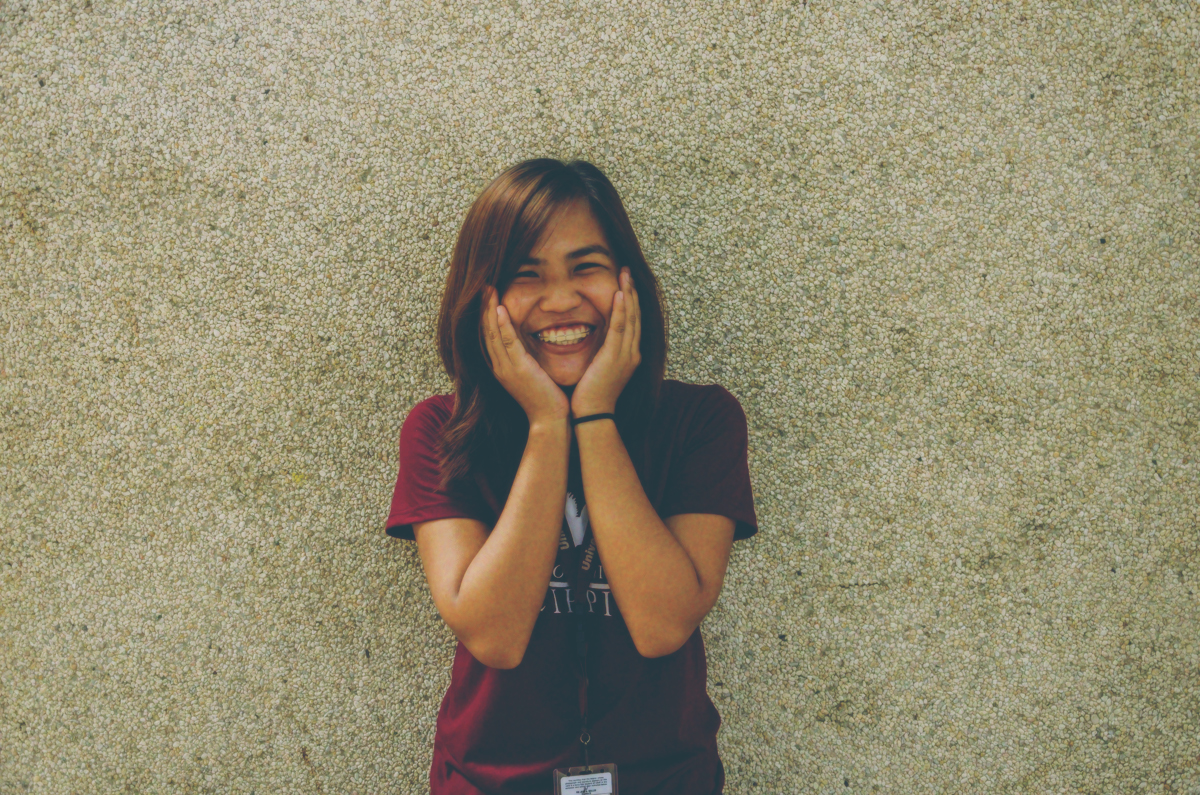
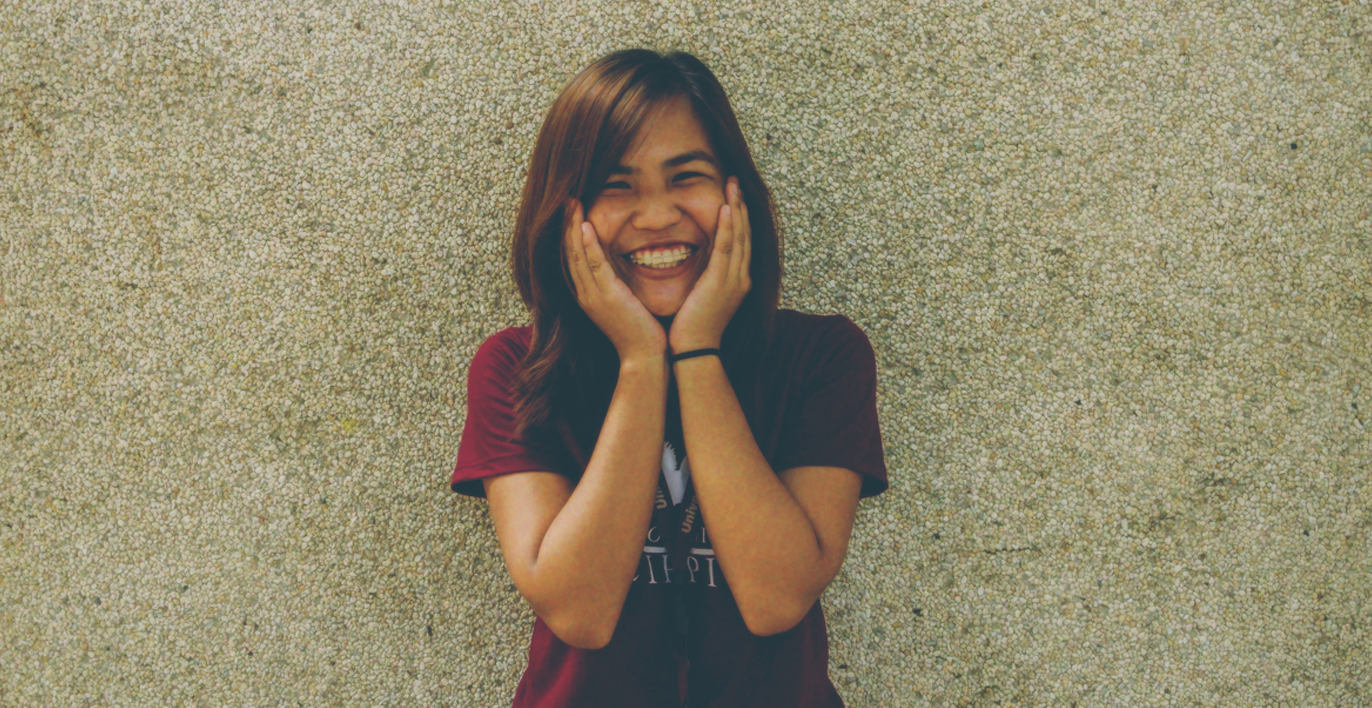
add html and image

diff --git a/mainpage.html b/mainpage.html
@@ -12,29 +12,33 @@
 				<nav>
 					<ul>
 						<li><a href="#home">Home</a></li>
-						<li><a href="#">About</a></li>
-						<li><a href="#">Affiliations</a></li>
+						<li><a href="#about">About</a></li>
+						<li><a href="#aff">Affiliations</a></li>
 						<li><a href="#">Photo</a></li>
 						<li><a href="#">Contact Me</a></li>
 					</ul>
 				</nav>
 		</div>
+				<a id="home"></a>
 				<div id="homepage">
-					<img src="image/main.jpg" height="10%" width="100%" >  
+				
 				</div>
 				
+				<a id="about"></a>
 				<div id="aboutme">
 					<a id="about">
 					<br><br>
 					<center><img src="image/aboutme.png"  height="400"></center>
 					</a>
 					
+					<a id="aff"></a>
 					<div id="experience">
 						
-						<img src="image/ex.jpg" height="10%" width="100%">
 						
-							<center><button class="button button1">ACADEMICS</button></center>
-							<center><button class="button button2">SPORTS</button></center>
+							
+							<a href="academic.html"><center><button class="button button1">ACADEMICS</button></center></a>
+							<a href="sports.html"><center><button class="button button2">SPORTS</button></center></a>
+						
 						
 						</div>
 							

diff --git a/sports.html b/sports.html
@@ -2,7 +2,7 @@
 
 <html>
 <head>
-	<title>ACADEMICS</title>
+	<title>SPORTS</title>
 	<link rel="stylesheet" type="text/css" href="style.css"/>
 </head>
 
@@ -12,16 +12,16 @@
 				<div id="top-image">
 
 				<br><br>				
-				<center><img src="image/acad.png" height="10%" width="30%" ></center> 
+				<center><img src="image/sport.png" height="10%" width="30%" ></center> 
 				</div>
 				
 				<div id="frame">
-					<iframe height="300px" width="100%"frameborder="0"  src="sits.html" name="iframe_a"></iframe>
+					<iframe height="300px" width="100%"frameborder="0"  src="" name="iframe_a"></iframe>
 					
 				</div>
 				
 				<center><table>
-					<tr><a href="sits.html" target= "iframe_a"><img src="image/sits.jpg" width="190px"></a></tr>
+					<tr><a href="#" target= "iframe_a"><img src="image/bp.jpg" width="190px"></a></tr>
 					<tr><a href="graphicon.html" target="iframe_a"><img src="image/g5.jpg" width="190px"></a></tr>
 				</table><center>
 </body>

diff --git a/style.css b/style.css
@@ -80,11 +80,13 @@ a{
     border: 2px solid black;
 	position: absolute;
 	top:200px;
-	font: AlexandriaFLF-B bold;
-	margin-top:134%;
+	font: calibri;
+	margin-top:100%;
 	margin-left:-17%;
 	width: 30%;
 	height: 10%;
+	text-align:center;
+
 	
 }
 .button2{
@@ -94,7 +96,7 @@ a{
 	position: absolute;
 	top:200px;
 	font:AlexandriaFLF-B;
-	margin-top:140%;
+	margin-top:107%;
 	margin-left:-17%;
 	width: 30%;
 	height: 10%;
@@ -107,4 +109,19 @@ a{
   height: 100%;
  
 }
-
+#homepage{
+	background-image: url("image/main.jpg");
+	width:100%;
+	height:700px;
+	backgound-size:cover;
+	display:table;
+	background-attachment:fixed;
+}
+#experience{
+	background-image: url("image/ex.jpg");
+	width:100%;
+	height:700px;
+	backgound-size:cover;
+	display:table;
+	background-attachment:fixed;
+}

diff --git a/batangpinoy.html b/batangpinoy.html
@@ -1,0 +1,6 @@
+<!DOCTYPE html>
+<html>
+	<body>
+		<center><img src="image/sits1.png" height="65%"width="65%"  ></center> 
+	</body>
+</html>
